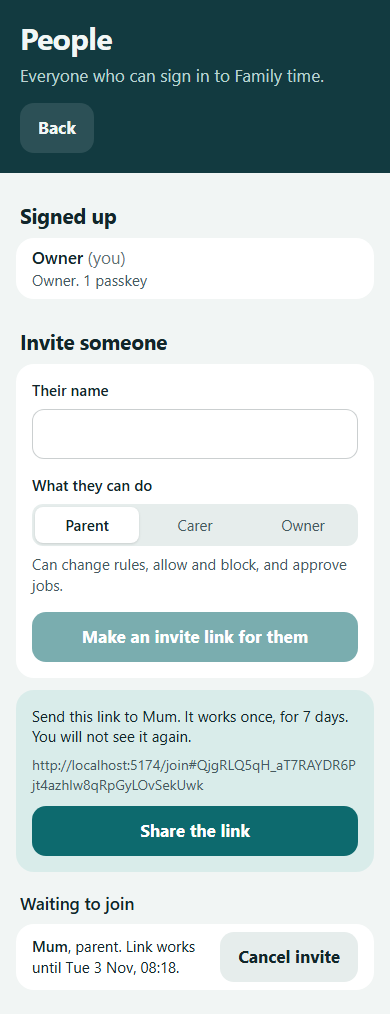
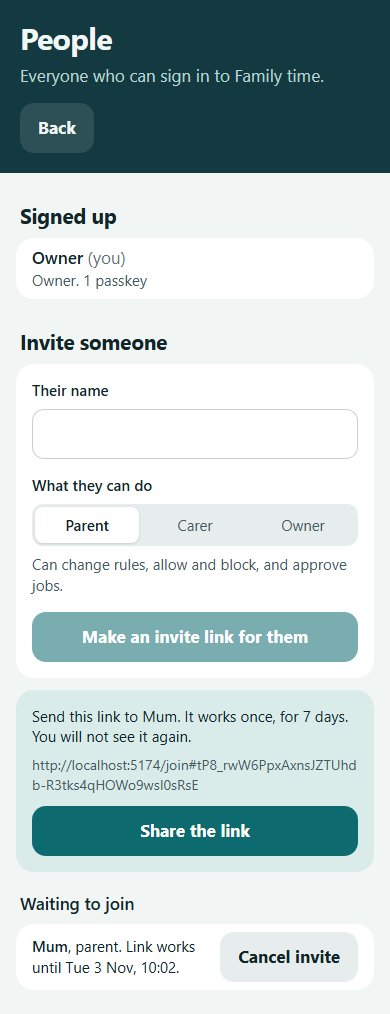
feat(deploy): AdGuard in the stack, contract tests against the real container, network guide
AdGuard v0.107.79 runs on the internal network with port 53 published on
the server's LAN address only, which init.sh detects. update.sh's test
project starts a fresh AdGuard and runs the same contract tests the
laptop runs against the fake. update.sh refuses an install that has not
re-run init.sh. ADRs 0009 and 0010, docs/setup/network.md, version 0.3.0.

Changed region(s): [[0.0923, 0.7337, 0.9231, 0.7949], [0.3692, 0.9477, 0.4615, 0.9783]]

diff --git a/apps/api/src/cli/control.ts b/apps/api/src/cli/control.ts
@@ -272,13 +272,11 @@ export interface AdGuardSetupStep {
 export async function adguardSetup(db: Db, adguard: AdGuard, credentials: { username: string; password: string }, apply: boolean): Promise<AdGuardSetupStep[]> {
   const hh = await household(db);
   const steps: AdGuardSetupStep[] = [];
-  let fresh = false;
-  try {
-    await adguard.installAddresses();
-    fresh = true;
-  } catch {
-    fresh = false;
-  }
+  // Before first-time setup, AdGuard answers this without credentials; afterwards it refuses.
+  const fresh = await adguard.installAddresses().then(
+    () => true,
+    () => false,
+  );
   if (fresh) {
     steps.push({ what: 'AdGuard first-time setup', from: 'not set up', to: `admin user ${credentials.username}, DNS on port 53, admin API on the internal network only` });
     if (apply) await adguard.configure({ web: { ip: '0.0.0.0', port: 3000 }, dns: { ip: '0.0.0.0', port: 53 }, ...credentials });

diff --git a/packages/adguard-client/test/contract.test.ts b/packages/adguard-client/test/contract.test.ts
@@ -19,8 +19,17 @@ beforeAll(async () => {
     fake = new FakeAdGuard({ configured: false });
     baseUrl = await fake.start();
   }
+  // A fresh container takes a moment to listen. Wait for it, up to 60 seconds.
+  const setup = new AdGuard({ baseUrl, username: USER, password: PASS, timeoutMs: 2_000 });
+  for (let i = 0; i < 60; i++) {
+    try {
+      await fetch(new URL('/', baseUrl), { signal: AbortSignal.timeout(2_000), redirect: 'manual' });
+      break;
+    } catch {
+      await new Promise((r) => setTimeout(r, 1_000));
+    }
+  }
   // A fresh AdGuard starts in its install wizard: configure it the way ft.sh adguard-setup does.
-  const setup = new AdGuard({ baseUrl, username: USER, password: PASS });
   try {
     await setup.installAddresses();
     await setup.configure({ web: { ip: '0.0.0.0', port: 3000 }, dns: { ip: '0.0.0.0', port: 53 }, username: USER, password: PASS });

diff --git a/packages/adguard-client/vitest.adguard.config.ts b/packages/adguard-client/vitest.adguard.config.ts
@@ -7,5 +7,6 @@ export default defineConfig({
     include: ['test/contract.test.ts'],
     maxWorkers: 1,
     testTimeout: 60_000,
+    hookTimeout: 120_000,
   },
 });

diff --git a/packages/adguard-client/vitest.config.ts b/packages/adguard-client/vitest.config.ts
@@ -7,5 +7,6 @@ export default defineConfig({
     include: ['test/**/*.test.ts'],
     maxWorkers: 3,
     testTimeout: 30_000,
+    hookTimeout: 30_000,
   },
 });

diff --git a/docs/setup/network.md b/docs/setup/network.md
@@ -1,0 +1,45 @@
+# Pointing the home network at AdGuard
+
+For the owner. These steps are yours: Family time never changes your router, and nothing in it uses AdGuard until you do this. Do them once Phase 2 is deployed and `./scripts/ft.sh adguard-setup --yes` has run.
+
+Note your router's current DNS settings first, so you can put them back if anything goes wrong.
+
+## 1. Try one device first
+
+Before touching the router, point only your son's iPad at AdGuard.
+
+1. On the iPad: Settings, Wi-Fi, tap the (i) next to your network.
+2. Private Wi-Fi Address: set to **Fixed**. Family time recognises the iPad by its address, so it must not change.
+3. Configure DNS: Manual. Delete the servers listed, add the server's LAN address (the `LAN_IP` in `deploy/.state/network.env` on the server).
+4. On the server: `./scripts/ft.sh status --child "<name>"`. Within a minute the device line should say `AdGuard confirmed`.
+5. Block YouTube from the command line or the app, and check a new video will not start on the iPad within a minute.
+
+If websites stop loading on the iPad, set Configure DNS back to Automatic. Nothing else on the network is affected.
+
+## 2. Then the whole home
+
+On the router, set the DNS server it hands out (DHCP DNS) to the server's LAN address. Router menus differ; it is usually under LAN, DHCP or Network.
+
+Many ISP routers, BT's among them, do not let you change this. The options then are:
+
+- set DNS by hand on each child device, as in step 1, or
+- turn off the router's DHCP and use AdGuard's own DHCP server (ask me first: it is a bigger change), or
+- put your own router behind the ISP one in modem mode.
+
+## 3. Close the side doors
+
+These stop a device getting round AdGuard. Do the ones your router supports.
+
+- [ ] Allow outbound DNS (port 53, TCP and UDP) only from the server's LAN address. Everything else on port 53 is blocked, so a device with hard-coded DNS (8.8.8.8) cannot use it.
+- [ ] Block outbound port 853 (DNS over TLS) for everything except the server.
+- [ ] On the iPad, in Screen Time: Content and Privacy Restrictions, Account Changes: Don't Allow, and Installing Apps: Don't Allow (or Ask). This stops VPN apps and DNS profiles being installed.
+- [ ] Set up a DHCP reservation (static lease) for the iPad on the router, so its address never changes.
+
+AdGuard itself already handles the rest once `adguard-setup` has run: iCloud Private Relay, Firefox's automatic DNS over HTTPS and Apple's own DNS over HTTPS are turned away, and a list of known DNS-over-HTTPS, VPN and proxy services is blocked.
+
+## What it cannot stop
+
+- Mobile data. DNS blocking works on home Wi-Fi only. Screen Time on the iPad stays on as the backstop.
+- A video or game already running. Blocks stop new connections, so changes take up to a minute and something already playing can finish.
+
+If the iPad stops asking AdGuard anything for 30 minutes outside bedtime, Family time marks it quiet. That usually means mobile data, a VPN, or DNS set somewhere else.

diff --git a/docs/adr/0010-adguard-ownership.md b/docs/adr/0010-adguard-ownership.md
@@ -1,0 +1,22 @@
+# ADR 0010: Who writes to AdGuard
+
+Status: accepted, 27 October 2026 (Phase 2)
+
+## Decision
+
+- **The reconciler in the worker is the only writer of devices and rules.** It runs as a pg-boss singleton every 60 seconds and whenever the api or CLI changes something. Each run computes every device's blocked services and our custom rules, writes AdGuard's whole client object (the API replaces it whole), writes our rules block, reads both back, and records `confirmed`, `pending` or, after three failures in a row, `not-confirmed`.
+- **We own one block of user rules**, between `! family-time: begin` and `! family-time: end`. Nothing outside it is touched. If the markers are missing, duplicated or reversed, nothing is written and the error says how to fix it.
+- **The bypass rules sit at the top of that block**, so the reconciler stays the only rules writer. They are switched on by a household setting.
+- **One exception, run by the owner: `./scripts/ft.sh adguard-setup`.** It does AdGuard's first-time setup and the global settings (TTLs, log retention, the HaGeZi bypass list, switching the bypass rules on). Without `--yes` it only prints what it would change. The brief asks for the owner's approval of these, and they are global settings, not per-device control.
+- **The api reads the query log** for the discovery helper and never writes.
+- Devices are recognised by a client name we generate (`ft-` and 12 hex characters) and their identifiers (IP, MAC, ClientID). The name is safe inside `$client='...'` without escaping; domains and names are checked before any rule is built.
+- AdGuard runs in Compose on the internal network (admin API never published) and an egress network (upstream DNS, and port 53 published on the server's LAN address only).
+
+## Why
+
+A second writer is how state ends up half-applied. Reading back after every write is the only way to say "working on his iPad now" honestly. Writing the whole client keeps us safe from the replace-the-whole-object behaviour.
+
+## Consequences
+
+- The client is checked against the vendored v0.107.79 spec on every build. Upgrading AdGuard means vendoring the new spec and passing the contract tests against the real container in `update.sh`'s test project.
+- A family that edits rules in AdGuard's own screen keeps those edits, as long as they stay outside our markers.

diff --git a/docs/adr/0009-control-engine.md b/docs/adr/0009-control-engine.md
@@ -1,0 +1,23 @@
+# ADR 0009: The control engine
+
+Status: accepted, 27 October 2026 (Phase 2)
+
+## Decision
+
+- `packages/domain` holds the engine: pure TypeScript, no I/O, the clock a parameter. Given a child's rules and an instant, it returns each service's state (allowed, blocked, paused), the layer that decided it, a sentence for parents, and when it next changes.
+- Precedence: Pause (manual or a scheduled routine pause such as tea), then a parent's override, then school, wind-down and bed blocks, then allowed time (grants, always-allowed), then the policy default.
+- One exception protects sleep: an Allow gives way to bedtime unless the parent chose "Through bedtime" (`overrides_bedtime`). "Until tomorrow" is the only duration that sets it. A Block always wins over everything below it.
+- Overrides always end. Only a Pause may last until resumed.
+- Rules are local wall-clock times in the household's zone. The engine converts with `Intl`, no library. A spring-gap time lands an hour later, like a wall clock; an autumn time that happens twice is the first.
+- `until` is found by evaluating the decision at every rule boundary in the next 48 hours and taking the first change.
+- `packages/db/src/control.ts` is the one loader from the database into the engine's shape, used by both the api and the worker.
+- Reasons name no pronoun ("Ollie planned 30 minutes of screen time"), because V2 serves any family.
+
+## Why
+
+The brief fixes the precedence (Part 4) and asks for property tests and a fake clock. A pure engine makes both easy, and one loader means the screen and AdGuard can never disagree about the rules.
+
+## Consequences
+
+- fast-check properties guard precedence, expiry, `until`, sentence shape and both 2026 clock changes. Two planted faults were each caught by the property that guards them.
+- Grant pause and refund on a parent's Block are worked out by the economy in Phase 4; the engine already gives the Block priority.

diff --git a/docs/versions.md b/docs/versions.md
@@ -9,6 +9,7 @@ Every version is pinned exactly. Checked on the registry on 26 October 2026 unle
 | Node.js | 24.15.0 | `.node-version`, `engines`, and the base image |
 | Base image | `node:24.15.0-trixie-slim` | Official, publishes linux/amd64 and linux/arm64 |
 | PostgreSQL | `postgres:18.6-trixie` | Data under `/var/lib/postgresql` (Postgres 18 layout) |
+| AdGuard Home | `adguard/adguardhome:v0.107.79` | Newest stable 0.107 on 27 Oct 2026 (v0.108 and v1.0 are betas). Spec vendored in `packages/adguard-client/spec/` |
 | pnpm | 10.34.9 | Through corepack. pnpm 12.15.0 is current, but did not start through corepack on the laptop. Revisit |
 
 ## Packages
@@ -39,7 +40,8 @@ Every version is pinned exactly. Checked on the registry on 26 October 2026 unle
 | tailwindcss, @tailwindcss/vite | 4.3.3 | parent (dev) | yes (Phase 1) |
 | @types/react, @types/react-dom | 19.3.0 | parent (dev) | types only |
 | @playwright/test | 1.64.1 | root (dev) | yes (Phase 1). Uses Chromium 1248 and WebKit 2370, already in the laptop's browser cache |
-| fast-check | 4.10.2 | root (dev) | yes (Phase 1, first property tests in Phase 2) |
+| fast-check | 4.10.2 | root (dev) | yes. Property tests in `packages/domain` |
+| pg-boss | 12.38.0 | api | yes. The api queues a reconcile after each change |
 | tsx | 4.23.15 | api (dev) | approved in Phase 0; runs `apps/api/dev/server.ts` |
 
 ## Checked for later phases, not installed yet
@@ -56,7 +58,7 @@ Every version is pinned exactly. Checked on the registry on 26 October 2026 unle
 | @ai-sdk/mcp | 2.0.84 | 7 |
 | @modelcontextprotocol/server, client | 2.4.0 | 7 |
 
-AdGuard Home and Besu image tags, including arm64 for Besu, are checked in Phases 2 and 5.
+The Besu image tag, including arm64, is checked in Phase 5.
 
 ## Tooling
 

diff --git a/CHANGELOG.md b/CHANGELOG.md
@@ -2,6 +2,14 @@
 
 Release notes the app shows on its System page (from Phase 8). One plain line per change, newest first.
 
+## 0.3.0 (Phase 2, control engine and AdGuard)
+
+- Family time works out what each child can use right now, why, and until when, from the schedule, the family's rules and any parent's Allow, Block or Pause.
+- An Allow stops at bedtime unless you choose Through bedtime.
+- Changes reach the child's devices through AdGuard within a minute, and the app only says it is working once AdGuard has confirmed it.
+- If a device stops using home DNS for 30 minutes outside bedtime, it is marked quiet.
+- About how many minutes each app was used today, from the home DNS log. Only per-minute counts are kept.
+
 ## 0.2.0 (Phase 1, accounts)
 
 - Sign in with a passkey: one tap, then Face ID. No passwords.

diff --git a/CLAUDE.md b/CLAUDE.md
@@ -34,7 +34,7 @@ This laptop cannot run containers and cannot reach the servers. Containers are b
 
 ## Layout
 
-`apps/api` Fastify, `apps/worker` pg-boss jobs, `packages/db` Drizzle schema and migrations (PGlite in tests), `packages/schemas` Zod, `deploy/` Compose, Caddy, systemd, `scripts/` gate, init, update, drill.
+`apps/api` Fastify routes and the server CLI, `apps/worker` pg-boss jobs (heartbeat, reconciler, usage), `apps/parent` React app, `packages/domain` the control engine (pure), `packages/db` Drizzle schema, migrations and the rules loader (PGlite in tests), `packages/adguard-client` client, rules block, fake AdGuard, `packages/schemas` Zod, `packages/tokens` design tokens, `deploy/` Compose, Caddy, systemd, `scripts/` gate, init, update, drill, ft.sh.
 
 ## Traps already hit here
 
